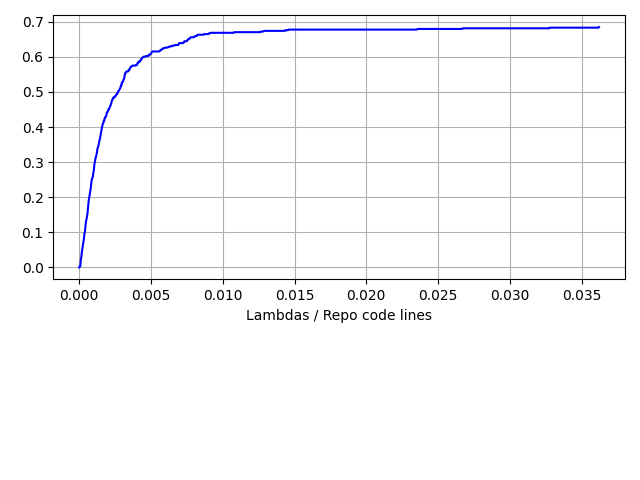
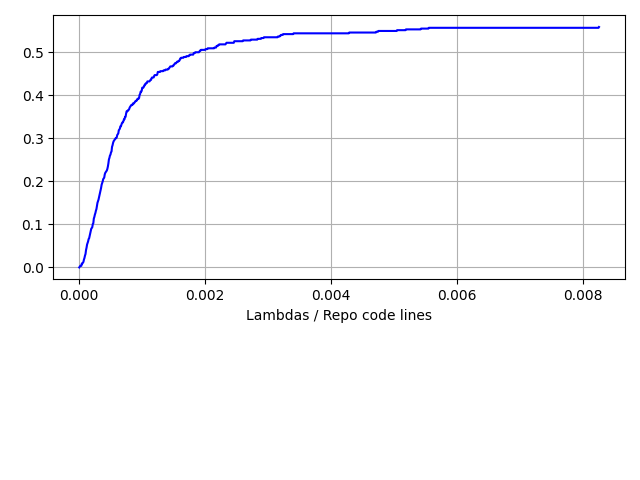
adding a Y label to the CDF graph

diff --git a/lambda_processor.py b/lambda_processor.py
@@ -302,7 +302,7 @@ def calc_correlation_between_repos_props_and_lambda_exp(df_repos_props,
 
 def plot_bar_plots_lambdas_types(all_files_dict_types):
     """
-    :param all_files_dict_types: a dictionary containing the following:
+    param all_files_dict_types: a dictionary containing the following:
     key = (filename, repository name, repository path)
     value = (dictionary containing the counts of the various usages of lambda expression in this python file,
     the number of lambda appearances)
@@ -343,6 +343,7 @@ def plot_CDF_number_of_lambdas_ratio(ratio_lambdas_repo_size):
     # plot the cumulative function
     plt.plot(base[:-1], cumulative, c='blue')
     plt.xlabel('Lambdas / Repo code lines')
+    plt.ylabel('Probability')
     plt.grid()
     plt.savefig("./plots/CDF.png")
 
